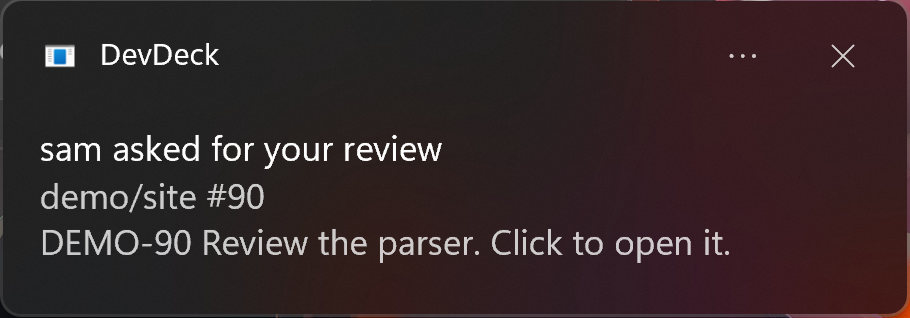
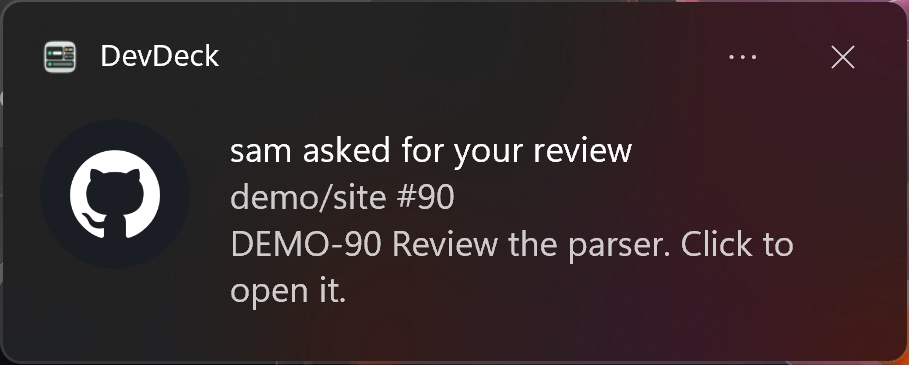
fix: show source marks in Windows notifications

diff --git a/Windows/DevDeck.Shell/ToastNotifications.cs b/Windows/DevDeck.Shell/ToastNotifications.cs
@@ -1,3 +1,4 @@
+using System.Buffers.Binary;
 using System.Security.Cryptography;
 using System.Text;
 using System.Windows;
@@ -80,14 +81,14 @@ public static class ToastPayload
             writer.WriteStartElement("visual");
             writer.WriteStartElement("binding");
             writer.WriteAttributeString("template", "ToastGeneric");
+            WriteText(writer, notification.Title);
+            WriteText(writer, notification.Subtitle);
+            WriteText(writer, notification.Body);
             writer.WriteStartElement("image");
             writer.WriteAttributeString("placement", "appLogoOverride");
             writer.WriteAttributeString("hint-crop", "circle");
             writer.WriteAttributeString("src", artworkUri);
             writer.WriteEndElement();
-            WriteText(writer, notification.Title);
-            WriteText(writer, notification.Subtitle);
-            WriteText(writer, notification.Body);
             writer.WriteEndElement();
             writer.WriteEndElement();
             if (notification.IsQuiet)
@@ -186,39 +187,69 @@ public sealed class WindowsToastPlatform : IToastPlatform
 
 public static class NotificationArtwork
 {
-    private const int Size = 128;
+    private const int Size = 256;
 
     public static string FileUri(string source)
+    {
+        var directory = Path.Combine(
+            Environment.GetFolderPath(Environment.SpecialFolder.CommonApplicationData),
+            "DevDeck",
+            "NotificationAssets");
+        return FileUri(source, directory);
+    }
+
+    public static string FileUri(string source, string directory)
     {
         if (!BrandMarks.Names.Contains(source, StringComparer.Ordinal))
         {
             throw new InvalidDataException($"Unknown notification source: {source}.");
         }
 
-        var directory = Path.Combine(
-            Environment.GetFolderPath(Environment.SpecialFolder.LocalApplicationData),
-            "DevDeck",
-            "NotificationAssets");
         Directory.CreateDirectory(directory);
-        var name = Convert.ToHexString(SHA256.HashData(Encoding.UTF8.GetBytes(source)))[..16];
+        var name = Convert.ToHexString(
+            SHA256.HashData(Encoding.UTF8.GetBytes($"toast-v2:{source}")))[..16];
         var path = Path.Combine(directory, $"{name}.png");
-        if (!File.Exists(path))
+        if (!IsUsable(path))
         {
             Render(source, path);
         }
-        return new Uri(path).AbsoluteUri;
+        return "file:///" + Path.GetFullPath(path);
+    }
+
+    private static bool IsUsable(string path)
+    {
+        if (!File.Exists(path))
+        {
+            return false;
+        }
+        try
+        {
+            using var stream = File.OpenRead(path);
+            var decoder = BitmapDecoder.Create(
+                stream,
+                BitmapCreateOptions.PreservePixelFormat,
+                BitmapCacheOption.OnLoad);
+            var frame = decoder.Frames.Single();
+            return frame.PixelWidth == Size &&
+                frame.PixelHeight == Size &&
+                HasCompatibleMetadata(File.ReadAllBytes(path));
+        }
+        catch (NotSupportedException)
+        {
+            return false;
+        }
     }
 
     private static void Render(string source, string path)
     {
-        var mark = BrandMarks.Create(source, 76.8);
+        var mark = BrandMarks.Create(source, 153.6);
         mark.HorizontalAlignment = HorizontalAlignment.Center;
         mark.VerticalAlignment = VerticalAlignment.Center;
         var tile = new Border
         {
             Width = Size,
             Height = Size,
-            CornerRadius = new CornerRadius(28),
+            CornerRadius = new CornerRadius(56),
             Background = new SolidColorBrush(Color.FromRgb(26, 30, 36)),
             Child = mark,
         };
@@ -230,7 +261,51 @@ public static class NotificationArtwork
         bitmap.Render(tile);
         var encoder = new PngBitmapEncoder();
         encoder.Frames.Add(BitmapFrame.Create(bitmap));
-        using var stream = File.Create(path);
-        encoder.Save(stream);
+        using var encoded = new MemoryStream();
+        encoder.Save(encoded);
+        WriteCompatiblePng(encoded.ToArray(), path);
+    }
+
+    private static bool HasCompatibleMetadata(byte[] bytes)
+    {
+        var offset = 8;
+        while (offset + 12 <= bytes.Length)
+        {
+            var length = BinaryPrimitives.ReadInt32BigEndian(bytes.AsSpan(offset, 4));
+            if (length < 0 || offset + length + 12 > bytes.Length)
+            {
+                return false;
+            }
+            var type = Encoding.ASCII.GetString(bytes, offset + 4, 4);
+            if (type is "gAMA" or "pHYs")
+            {
+                return false;
+            }
+            offset += length + 12;
+            if (type == "IEND")
+            {
+                return true;
+            }
+        }
+        return false;
+    }
+
+    private static void WriteCompatiblePng(byte[] bytes, string path)
+    {
+        using var output = File.Create(path);
+        output.Write(bytes, 0, 8);
+        var offset = 8;
+        while (offset < bytes.Length)
+        {
+            var length = BinaryPrimitives.ReadInt32BigEndian(bytes.AsSpan(offset, 4));
+            var type = Encoding.ASCII.GetString(bytes, offset + 4, 4);
+            var chunkLength = length + 12;
+            // Windows toast drops WPF PNG files that retain physical size and gamma chunks.
+            if (type is not "gAMA" and not "pHYs")
+            {
+                output.Write(bytes, offset, chunkLength);
+            }
+            offset += chunkLength;
+        }
     }
 }

diff --git a/Windows/DevDeck.Shell.Tests/Program.cs b/Windows/DevDeck.Shell.Tests/Program.cs
@@ -4,6 +4,7 @@ using System.Windows;
 using System.Windows.Automation;
 using System.Windows.Controls;
 using System.Windows.Media;
+using System.Windows.Media.Imaging;
 using System.Windows.Threading;
 using System.Xml.Linq;
 using DevDeck.Shell;
@@ -91,8 +92,10 @@ public static class Program
         Run("notification transcripts parse into complete models", NotificationTranscriptsParse);
         Run("notification clicks send the exact command", NotificationClicksSendExactCommand);
         Run("quiet notifications silence their toast XML", QuietNotificationsSilenceToastXml);
+        Run("toast XML keeps text before its source mark", ToastXmlKeepsTextBeforeSourceMark);
         Run("notification ids are shown only once", NotificationIdsAreShownOnlyOnce);
         Run("every notification source has a shared mark", EveryNotificationSourceHasSharedMark);
+        Run("notification artwork is an existing square file URI", NotificationArtworkIsExistingSquareFileUri);
         Run("toast registration uses a stable application id", ToastRegistrationUsesStableApplicationId);
         Run("log updates append only their new lines", LogUpdatesAppendOnlyNewLines);
         Run("empty logs show the engine detail", EmptyLogsShowEngineDetail);
@@ -763,6 +766,27 @@ public static class Program
         True(audibleDocument.Root?.Element("audio") is null);
     }
 
+    private static void ToastXmlKeepsTextBeforeSourceMark()
+    {
+        var notification = RuntimeNotifications("runtime-banners-en.expected.jsonl").First();
+        var document = XDocument.Parse(ToastPayload.Build(notification, "file:///mark.png"));
+        var children = document.Root?
+            .Element("visual")?
+            .Element("binding")?
+            .Elements()
+            .Select(element => element.Name.LocalName)
+            .ToArray() ?? [];
+        Equal("text,text,text,image", string.Join(',', children));
+        Equal(
+            "file:///mark.png",
+            document.Root?
+                .Element("visual")?
+                .Element("binding")?
+                .Element("image")?
+                .Attribute("src")?
+                .Value);
+    }
+
     private static void NotificationIdsAreShownOnlyOnce()
     {
         var notification = SessionNotifications("session-settings-en.expected.jsonl").Single();
@@ -781,6 +805,39 @@ public static class Program
         }
     }
 
+    private static void NotificationArtworkIsExistingSquareFileUri()
+    {
+        var directory = Path.Combine(Path.GetTempPath(), $"devdeck-toast-{Guid.NewGuid():N}");
+        try
+        {
+            var value = NotificationArtwork.FileUri("github", directory);
+            var uri = new Uri(value);
+            True(value.StartsWith("file:///", StringComparison.Ordinal));
+            True(value.Contains('\\'));
+            True(uri.IsAbsoluteUri);
+            True(uri.IsFile);
+            True(File.Exists(uri.LocalPath));
+            using var stream = File.OpenRead(uri.LocalPath);
+            var decoder = BitmapDecoder.Create(
+                stream,
+                BitmapCreateOptions.PreservePixelFormat,
+                BitmapCacheOption.OnLoad);
+            var frame = decoder.Frames.Single();
+            Equal(256, frame.PixelWidth);
+            Equal(frame.PixelWidth, frame.PixelHeight);
+            var chunks = PngChunkTypes(File.ReadAllBytes(uri.LocalPath));
+            True(!chunks.Contains("gAMA", StringComparer.Ordinal));
+            True(!chunks.Contains("pHYs", StringComparer.Ordinal));
+        }
+        finally
+        {
+            if (Directory.Exists(directory))
+            {
+                Directory.Delete(directory, true);
+            }
+        }
+    }
+
     private static void ToastRegistrationUsesStableApplicationId()
     {
         Equal("DevDeck.Shell", ToastShortcutRegistration.AppId);
@@ -793,6 +850,25 @@ public static class Program
                 "Programs",
                 "DevDeck.lnk"),
             ToastShortcutRegistration.ShortcutPath("profile"));
+    }
+
+    private static IReadOnlyList<string> PngChunkTypes(byte[] bytes)
+    {
+        var result = new List<string>();
+        var offset = 8;
+        while (offset + 12 <= bytes.Length)
+        {
+            var length = System.Buffers.Binary.BinaryPrimitives.ReadInt32BigEndian(
+                bytes.AsSpan(offset, 4));
+            var type = System.Text.Encoding.ASCII.GetString(bytes, offset + 4, 4);
+            result.Add(type);
+            offset += length + 12;
+            if (type == "IEND")
+            {
+                break;
+            }
+        }
+        return result;
     }
 
     private static Color Pixel(System.Windows.Media.Imaging.BitmapSource image, int x, int y)

diff --git a/Windows/DevDeck.Shell/ToastShortcutRegistration.cs b/Windows/DevDeck.Shell/ToastShortcutRegistration.cs
@@ -6,6 +6,8 @@ namespace DevDeck.Shell;
 public static class ToastShortcutRegistration
 {
     public const string AppId = "DevDeck.Shell";
+    private const uint AssociationChanged = 0x08000000;
+    private const uint ItemIdList = 0x0000;
     private static readonly PropertyKey AppUserModelId = new(
         new Guid("9F4C2855-9F79-4B39-A8D0-E1D42DE1D5F3"),
         5);
@@ -46,6 +48,7 @@ public static class ToastShortcutRegistration
         {
             _ = Marshal.FinalReleaseComObject(instance);
         }
+        SHChangeNotify(AssociationChanged, ItemIdList, 0, 0);
     }
 
     public static string ShortcutPath(string applicationData)
@@ -61,6 +64,9 @@ public static class ToastShortcutRegistration
 
     [DllImport("shell32.dll", CharSet = CharSet.Unicode)]
     private static extern int SetCurrentProcessExplicitAppUserModelID(string appId);
+
+    [DllImport("shell32.dll")]
+    private static extern void SHChangeNotify(uint eventId, uint flags, nint firstItem, nint secondItem);
 
     [ComImport]
     [Guid("00021401-0000-0000-C000-000000000046")]

diff --git a/Windows/README.md b/Windows/README.md
@@ -154,9 +154,15 @@ The unpackaged shell uses the classic Windows toast API with the stable AUMID `D
 At startup it creates or updates the current user's
 `%APPDATA%\Microsoft\Windows\Start Menu\Programs\DevDeck.lnk`, points it at the running
 executable and gives it the same AUMID. Windows uses that shortcut to associate notifications
-with DevDeck. This shortcut is the only persistent machine state created for notifications.
-Activation is handled only while the shell is running, so the exact command stays in memory and
-is never written to an activation argument.
+with DevDeck. Activation is handled only while the shell is running, so the exact command stays
+in memory and is never written to an activation argument.
+
+Source marks are rendered as square 256 pixel PNG files in
+`%PROGRAMDATA%\DevDeck\NotificationAssets`. That location lets the Windows notification renderer
+read the image. The XML uses an absolute `file:///C:\...` source. The executable embeds the
+DevDeck app icon, which is also used by the Start Menu shortcut and the toast header.
+The shortcut and notification asset directory are the only persistent machine state created for
+notifications.
 
 The earlier Windows App SDK 1.8 implementation called `AppNotificationManager.Register()` and
 reported notifications as enabled, but Windows Shell did not display or retain them. This matches
